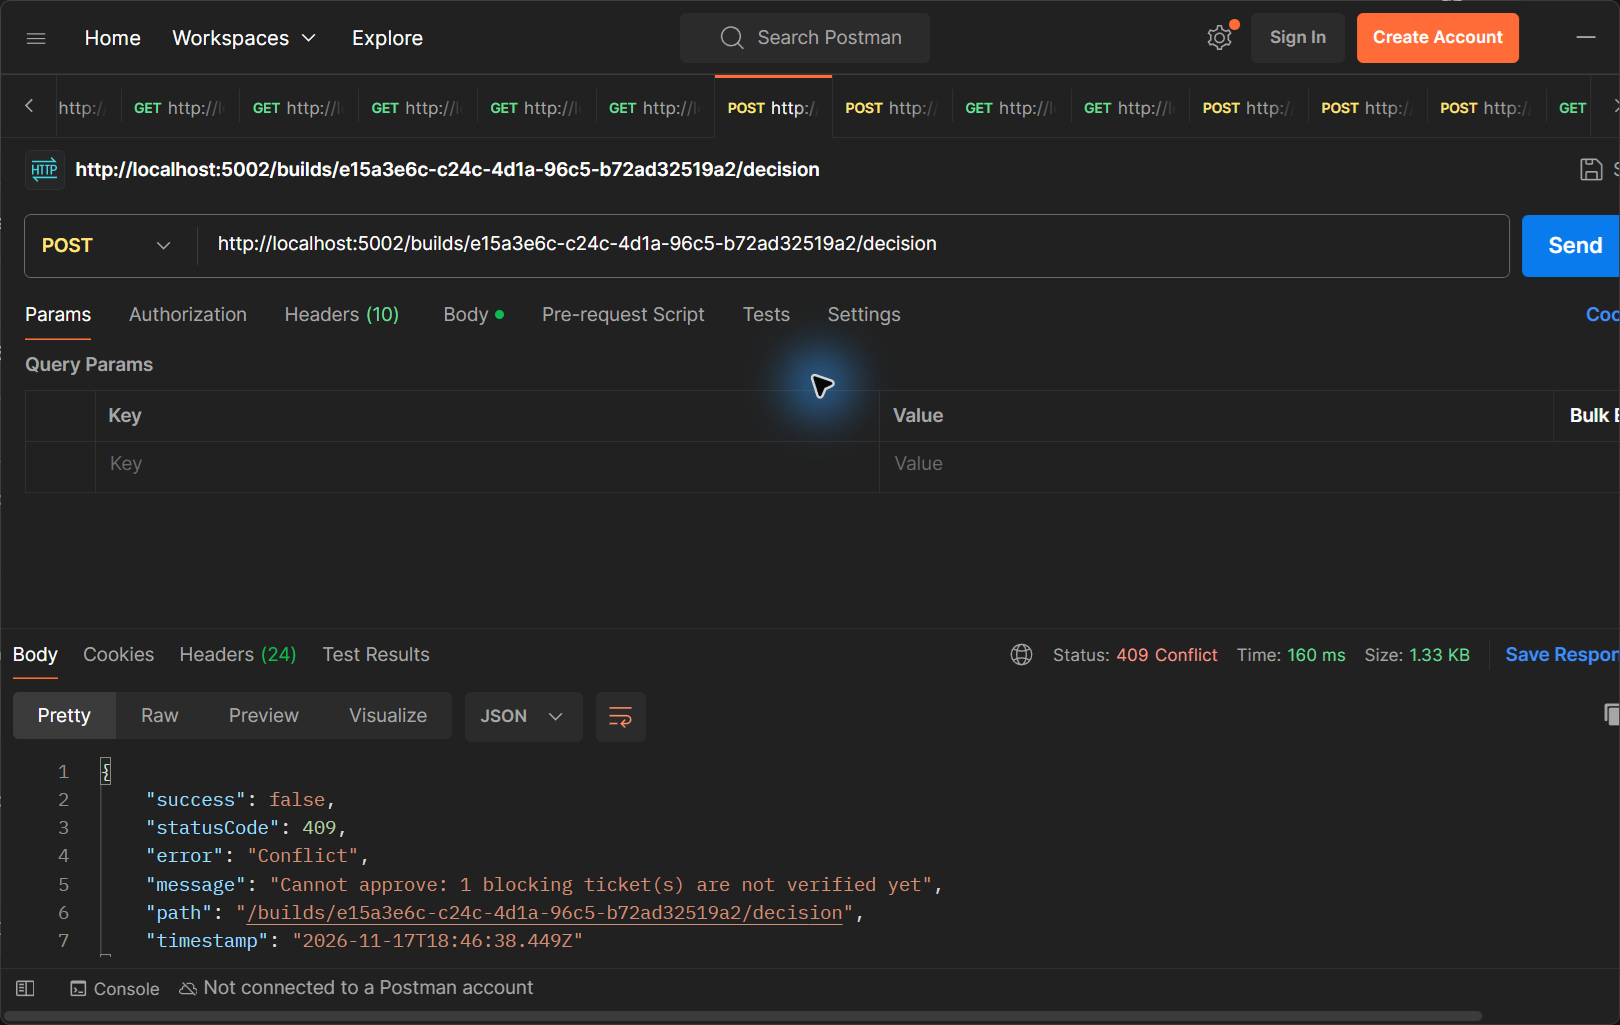
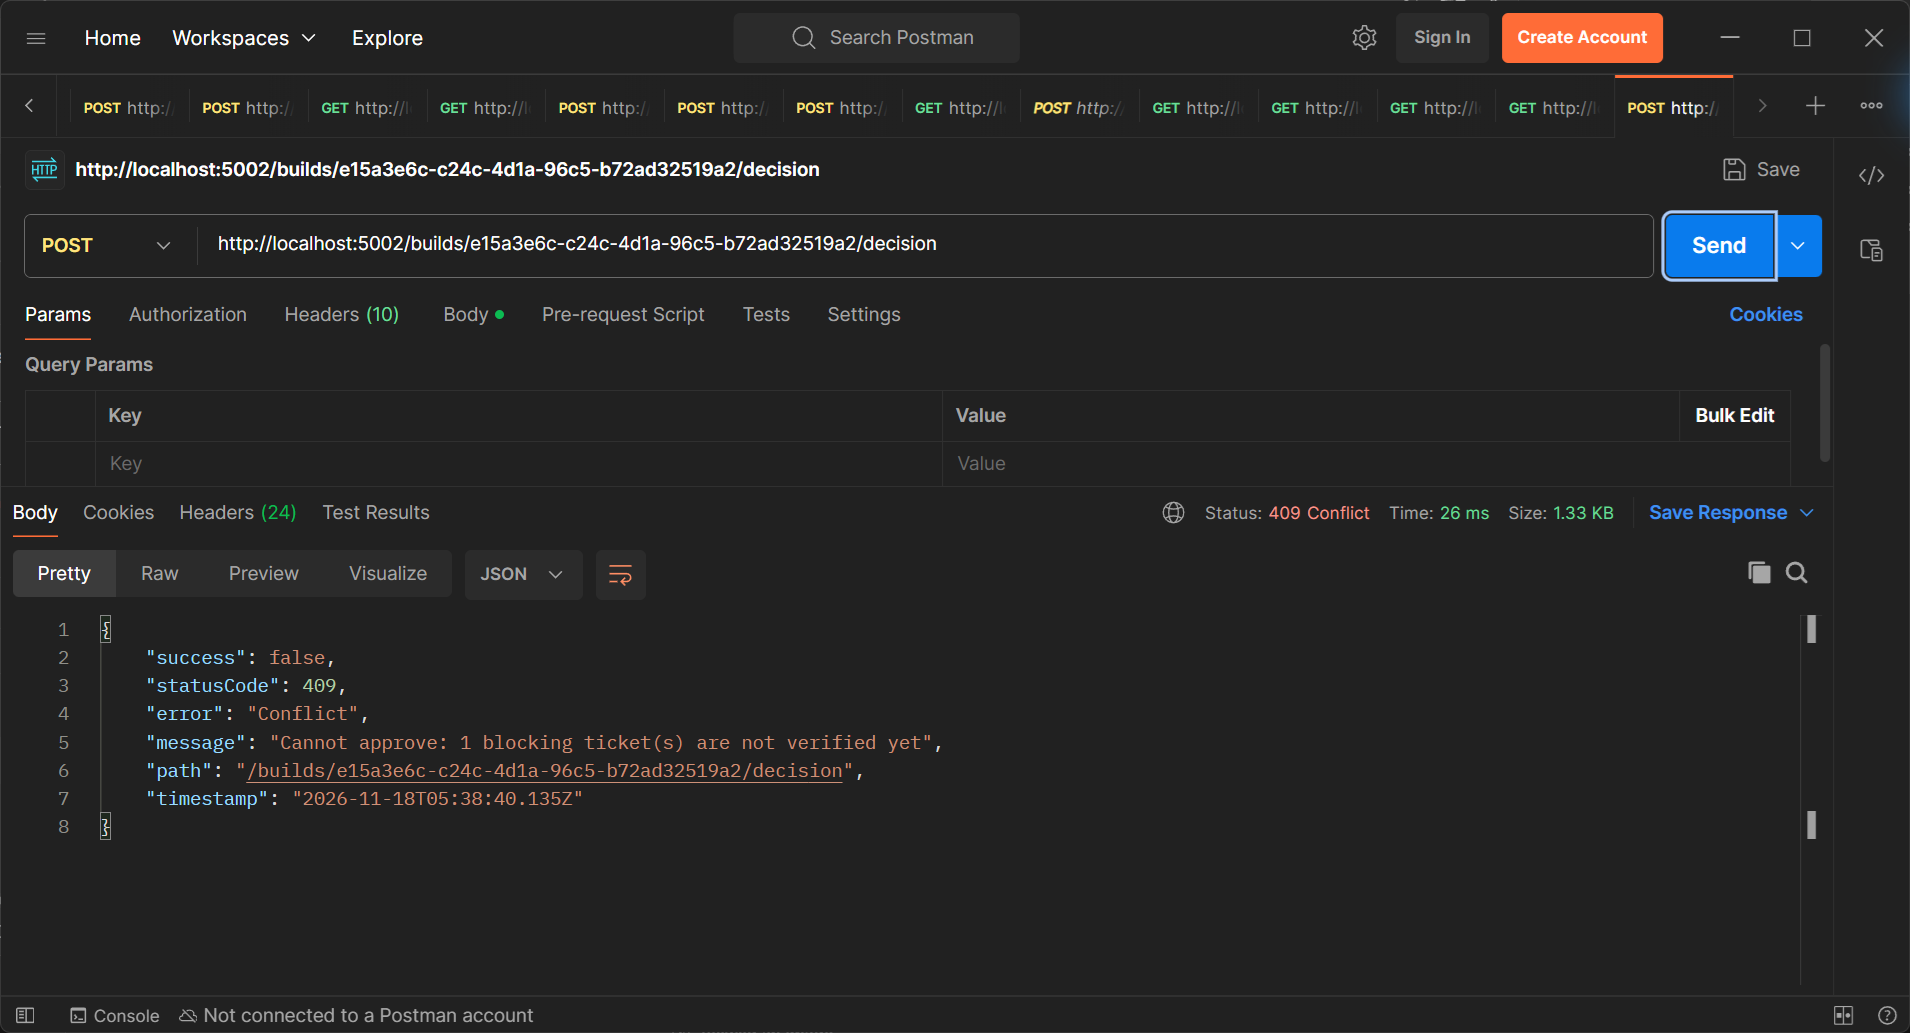
Update Tester README and Postman screenshots

diff --git a/README.md b/README.md
@@ -41,7 +41,7 @@ Keep the API terminal and PostgreSQL running. First send **GET http://localhost:
 
 ## Ten Postman checks
 
-These full-resolution PNGs were newly captured from Postman's saved responses from the earlier local test. They are not a new live test run. Each caption gives the exact request URL shown. On another database, substitute its IDs as described above. Click an image to view its original size.
+These full-window PNGs were captured in Postman Desktop during a fresh local test against a separate PostgreSQL demo database. Each caption gives the exact request URL shown. On another database, substitute its IDs as described above. Click an image to view its original size.
 
 ### 1. API and database health
 
@@ -63,7 +63,7 @@ Expected **401 Unauthorized**. This is an intentional rejection.
 
 Expected **200 OK**. The `items` array contains the reports visible to the Tester.
 
-> **GET** `http://localhost:5002/projects/8d25c4a1-7eca-466c-a288-bd764501d910/tickets`
+> **GET** `http://localhost:5002/projects/cf1789ab-0200-4dbd-aff0-59503a533c5c/tickets`
 
 ![List the Tester's reports](docs/postman/03-my-reports.png)
 
@@ -83,7 +83,7 @@ Body `{"status": "VERIFIED"}`
 
 Expected **201 Created**. IF-1 changes from `RESOLVED` to `VERIFIED`.
 
-> **POST** `http://localhost:5002/tickets/1b2344a8-2d8e-4d61-bb2c-865a91cdd3a1/status`
+> **POST** `http://localhost:5002/tickets/56c38037-7818-44f2-a80b-0703af23e868/status`
 
 ![Verify the resolved fix](docs/postman/05-verify-fix.png)
 
@@ -91,7 +91,7 @@ Expected **201 Created**. IF-1 changes from `RESOLVED` to `VERIFIED`.
 
 Expected **200 OK**. A separate read returns `status: "VERIFIED"`, confirming the update is persisted..
 
-> **GET** `http://localhost:5002/tickets/1b2344a8-2d8e-4d61-bb2c-865a91cdd3a1`
+> **GET** `http://localhost:5002/tickets/56c38037-7818-44f2-a80b-0703af23e868`
 
 ![Read the saved ticket again](docs/postman/06-ticket-reread.png)
 
@@ -119,7 +119,7 @@ Body `{"status": "OPEN", "note": "Issue still visible in the QA demo"}`
 
 Expected **201 Created**. IF-2 changes from `VERIFIED` to `OPEN`.
 
-> **POST** `http://localhost:5002/tickets/a3c0d8b6-de9a-4276-a5a2-8c3a78f8355a/status`
+> **POST** `http://localhost:5002/tickets/965415d5-c344-4b42-a8dc-60f3002328fd/status`
 
 ![Reopen the separate verified report](docs/postman/09-reopen-ticket.png)
 
@@ -127,7 +127,7 @@ Expected **201 Created**. IF-2 changes from `VERIFIED` to `OPEN`.
 
 Body `{"decision": "CHANGES_REQUESTED", "note": "Please fix the remaining catalogue display issue."}`
 
-Expected **201 Created**. This recovered history entry shows the request body and saved status; its response body was not retained.
+Expected **201 Created**. The response records the `CHANGES_REQUESTED` decision, the note and the build commit SHA.
 
 > **POST** `http://localhost:5002/builds/b06330aa-902a-491c-9897-4760a15c95da/decision`
 
